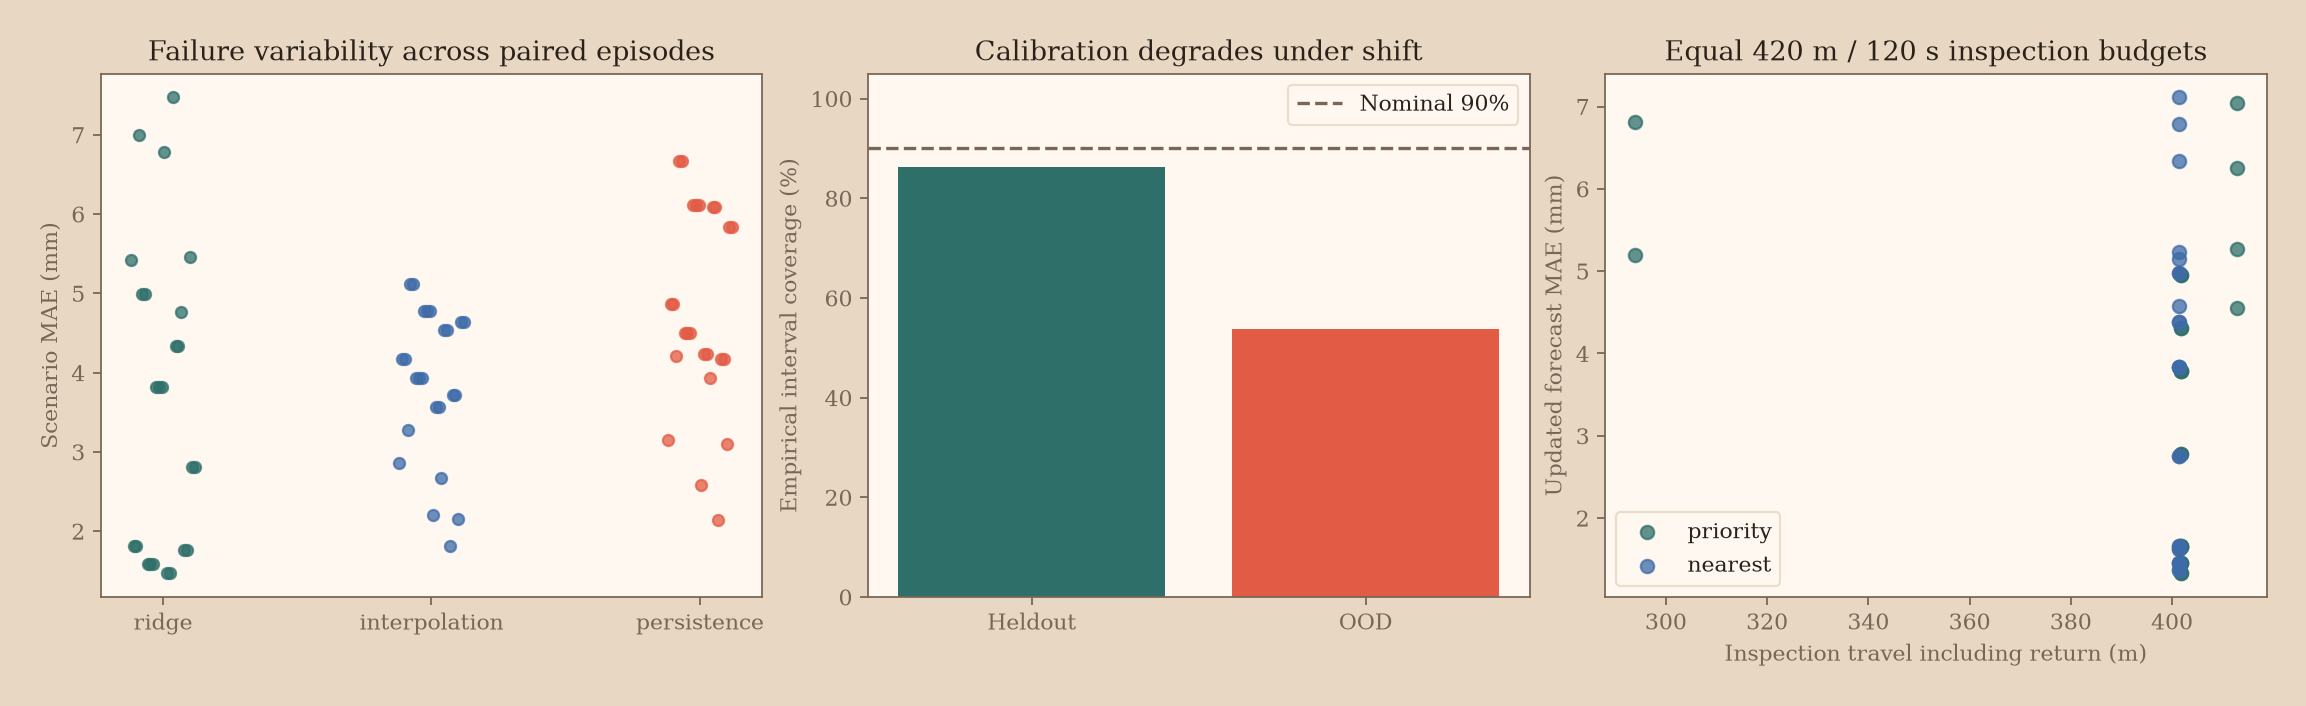
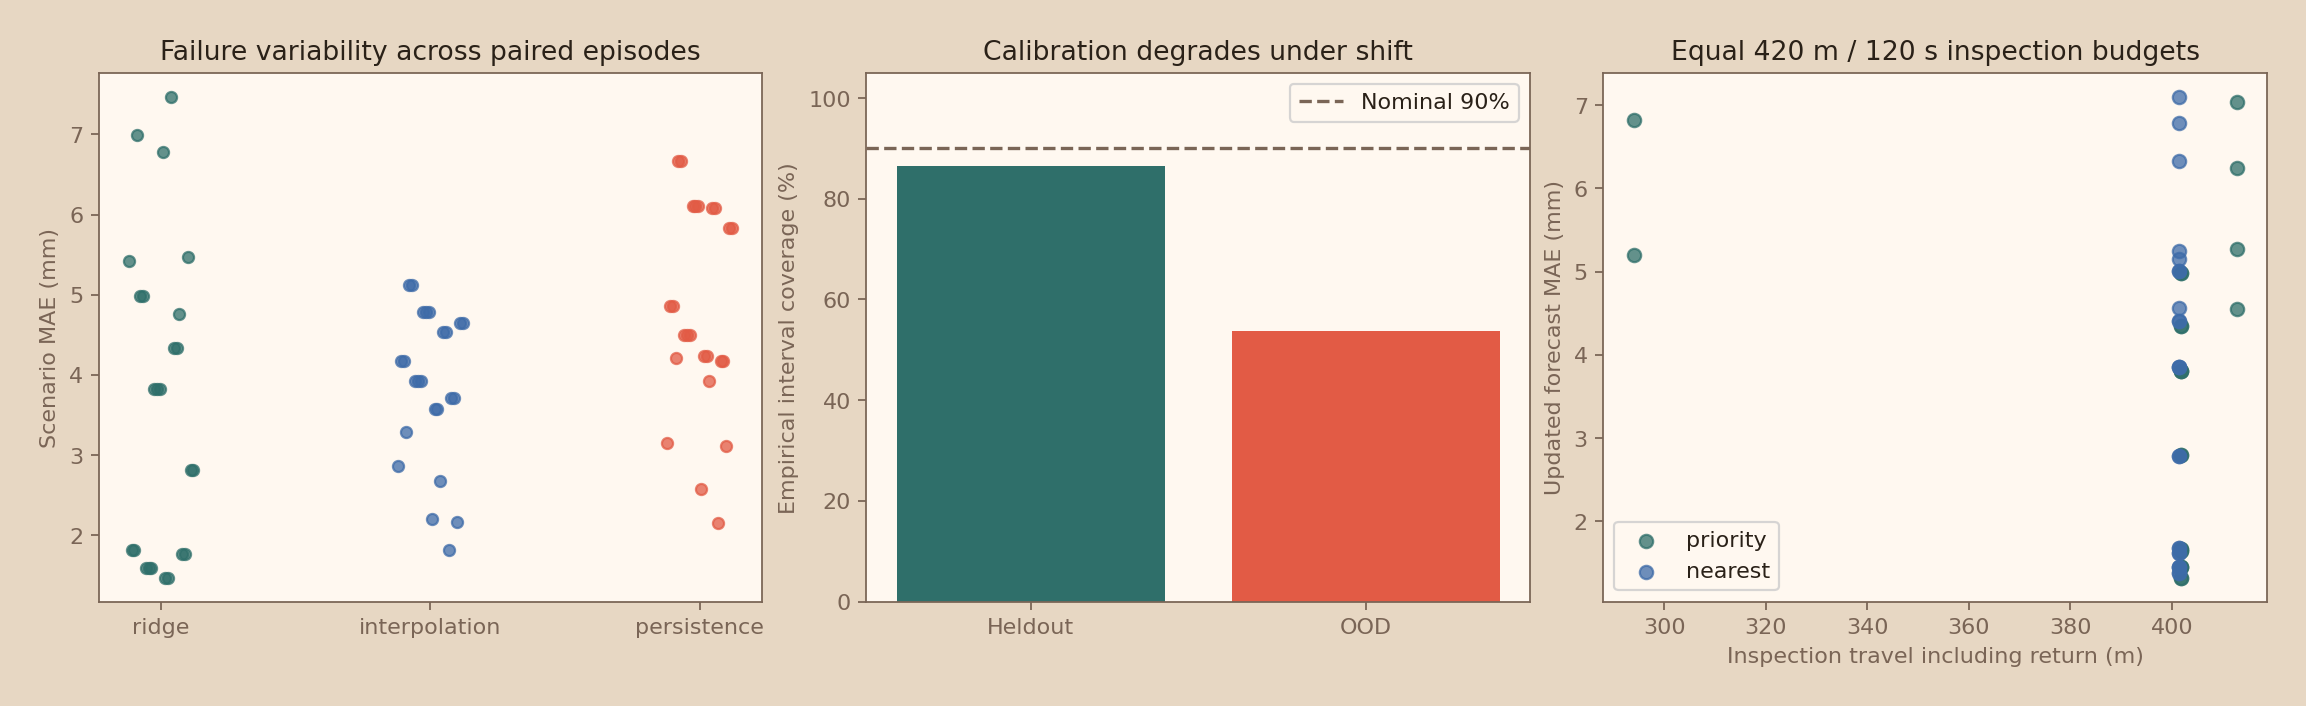
fix: anchor inspection corrections to the observation epoch
Keep the observation forecast reference fixed as later forecasts advance. Refresh 48 paired route evaluations using existing model weights and report the slightly increased measured error honestly. Validation: 66 Python tests passed, including arrival, later-step and expiry regressions.

diff --git a/tests/test_inspection_anchor.py b/tests/test_inspection_anchor.py
@@ -1,0 +1,13 @@
+import numpy as np
+from floodlens.policy import assimilate
+
+def test_inspection_correction_advances_from_observation_epoch():
+    pred=np.arange(16,dtype=float)[:,None]*.1
+    event={'available_step':4,'crossing':0,'depth_m':.5}
+    result=assimilate(pred,[event])
+    assert np.array_equal(result[:4],pred[:4])
+    # Forecasts lead truth by 3 steps: pred[1] is the issued forecast for arrival step 4.
+    assert np.isclose(result[4,0],.5+pred[4,0]-pred[1,0])
+    assert np.isclose(result[6,0],.5+pred[6,0]-pred[1,0])
+    assert np.isclose(result[13,0],.5+pred[13,0]-pred[1,0])
+    assert result[14,0]==pred[14,0]

diff --git a/floodlens/policy.py b/floodlens/policy.py
@@ -64,7 +64,8 @@ def assimilate(predictions,events,dt=20):
         for e in events:
             a=e['available_step'];c=e['crossing']
             if a<=t and (t-a)*dt<=180:
-                # At arrival, the baseline horizon increment uses only issued forecasts.
-                horizon_delta=pred[t,c]-pred[max(0,t-3),c]
+                # Anchor to the forecast issued for the observation epoch (3-step lead).
+                # Keep this reference fixed as later forecasts advance beyond arrival.
+                horizon_delta=pred[t,c]-pred[max(0,a-3),c]
                 out[t,c]=max(0,e['depth_m']+horizon_delta)
     return out

diff --git a/docs/architecture.md b/docs/architecture.md
@@ -6,6 +6,6 @@ A cell stores depth h in metres over 144 m². Each dt ≤20 s step adds uniform 
 
 At maximum dt, four edge conductances sum to 0.24 before boundary loss. Donor limiting also preserves nonnegative depth. Same-network time refinement is meaningful; grid-refinement equivalence is not, because conductance is not derived as diffusivity/dx². The terrain creates a low channel and mild perturbations; six synthetic points stand in for road crossings.
 
-Features never read future depth/rain. The API sends full truth explicitly for visualization only. Gauge noise is seeded with seed/time/row/column so equal site/time evidence is paired across policies. Route planning consumes a then-issued forecast only. A point observation becomes available at ceil((start+arrival)/dt); forecasts before that step stay unchanged. Correction uses the arrived depth plus the causal forecast's recent predicted change, expires after 180 s, and does not pretend to be a complete spatial assimilation filter. Both distance and service/travel time include return reserve.
+Features never read future depth/rain. The API sends full truth explicitly for visualization only. Gauge noise is seeded with seed/time/row/column so equal site/time evidence is paired across policies. Route planning consumes a then-issued forecast only. A point observation becomes available at ceil((start+arrival)/dt); forecasts before that step stay unchanged. Correction uses the arrived depth plus the current forecast minus the forecast issued three steps before that observation's arrival. This reference stays anchored to the observation epoch as time advances, expires after 180 s, and does not pretend to be a complete spatial assimilation filter. Both distance and service/travel time include return reserve.
 
 Technical references consulted during development: [USACE diffusion-wave solver](https://www.hec.usace.army.mil/confluence/hecras/latest/technical-reference/numerical-methods/diffusion-wave-solver) for the distinction between conservative numerical storage and full dynamics (this code is not HEC-RAS); [NumPy solve](https://numpy.org/doc/stable/reference/generated/numpy.linalg.solve.html) for the ridge normal-equation solve. No third-party hydraulic solver or field dataset is incorporated.

diff --git a/README.md b/README.md
@@ -47,8 +47,8 @@ The full bounded run trains on **9,936 rows from 24 whole episodes in terrain fa
 | Ridge nowcast, gauges only | 3.644 mm |
 | Current inverse-distance interpolation | 3.859 mm |
 | Stale interpolated-estimate persistence | 4.777 mm |
-| Forecast-priority inspection correction | 3.510 mm |
-| Nearest-site inspection correction baseline | 3.525 mm |
+| Forecast-priority inspection correction | 3.515 mm |
+| Nearest-site inspection correction baseline | 3.533 mm |
 
 The nominal **90%** gauge-model interval covers only **70.0%** of heldout/OOD targets. It is poorly calibrated outside validation conditions and is not calibrated for the inspection-corrected forecast. A smaller quick run shows an unfavorable learned outcome (**6.345 mm vs 4.237 mm interpolation**). Neither run supports an unqualified claim that ML is superior. The priority/nearest inspection difference is small and has no confidence/significance claim.
 
